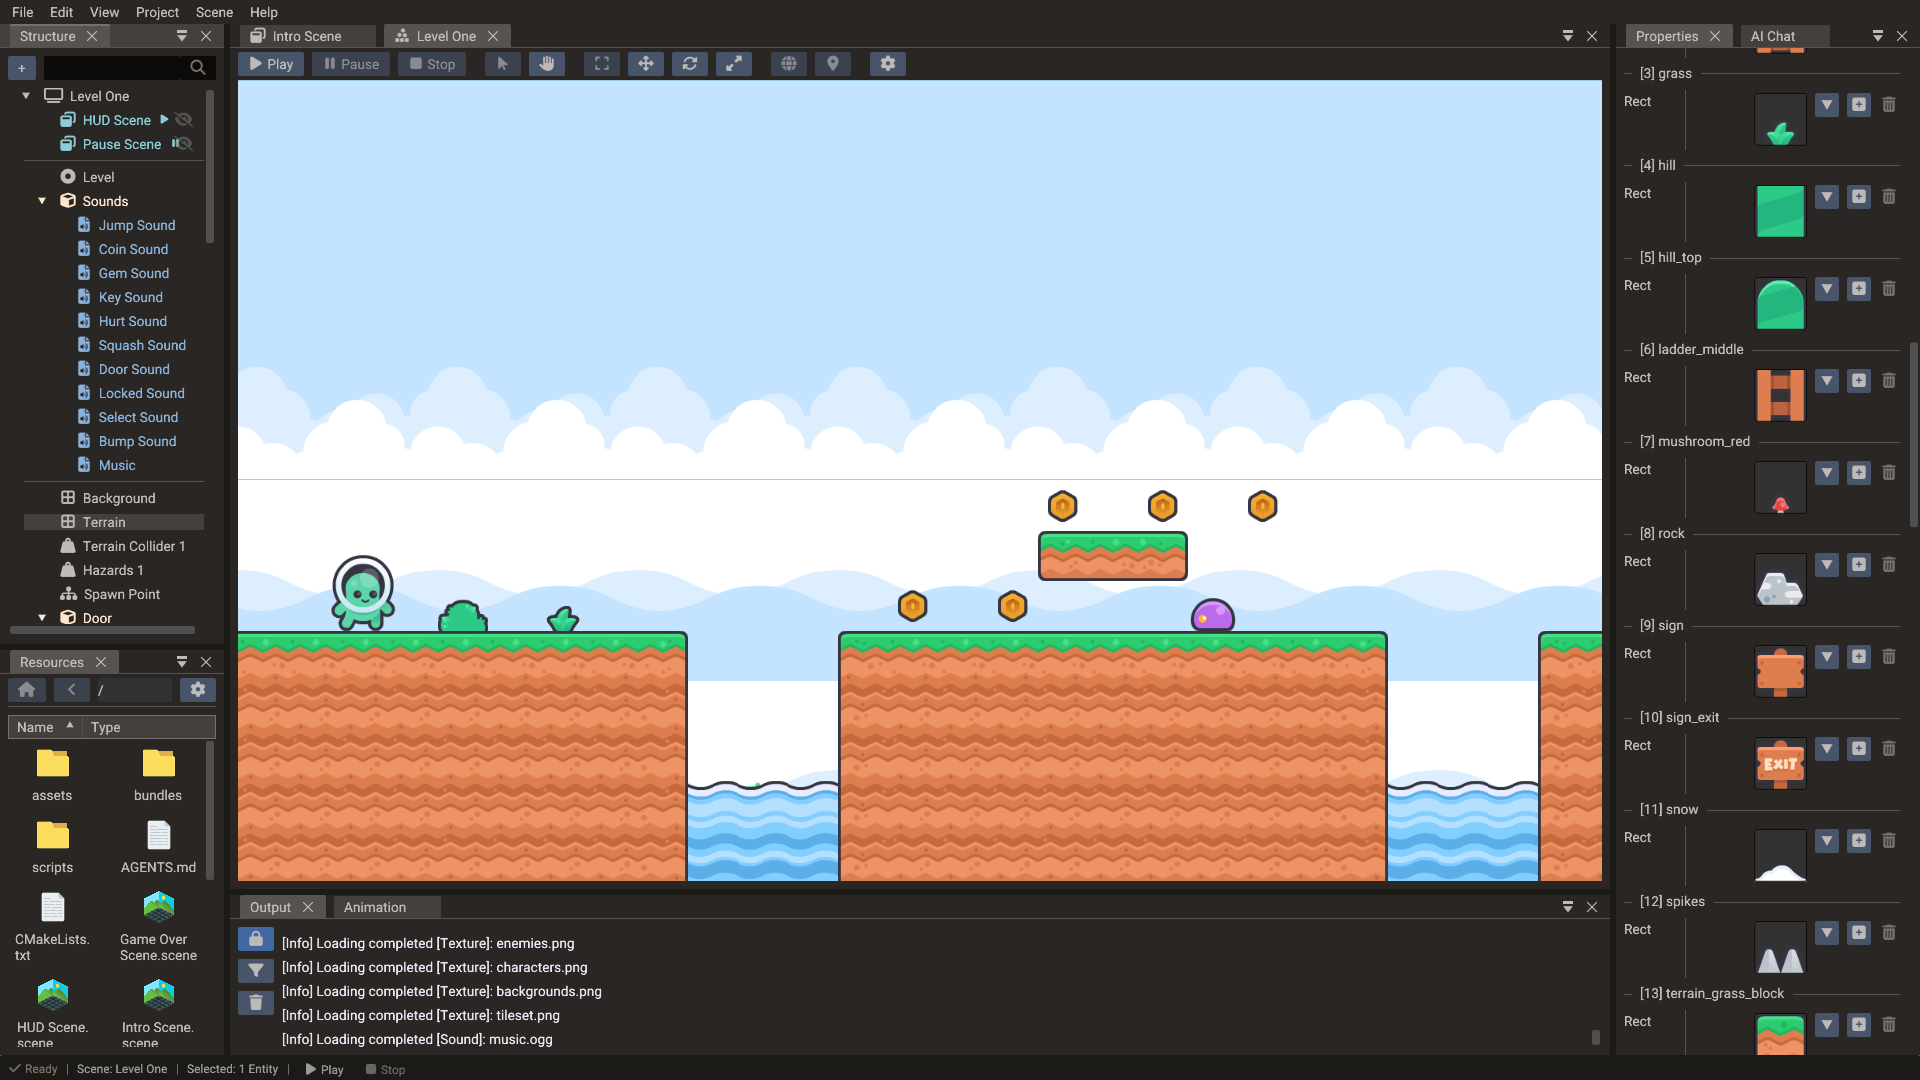
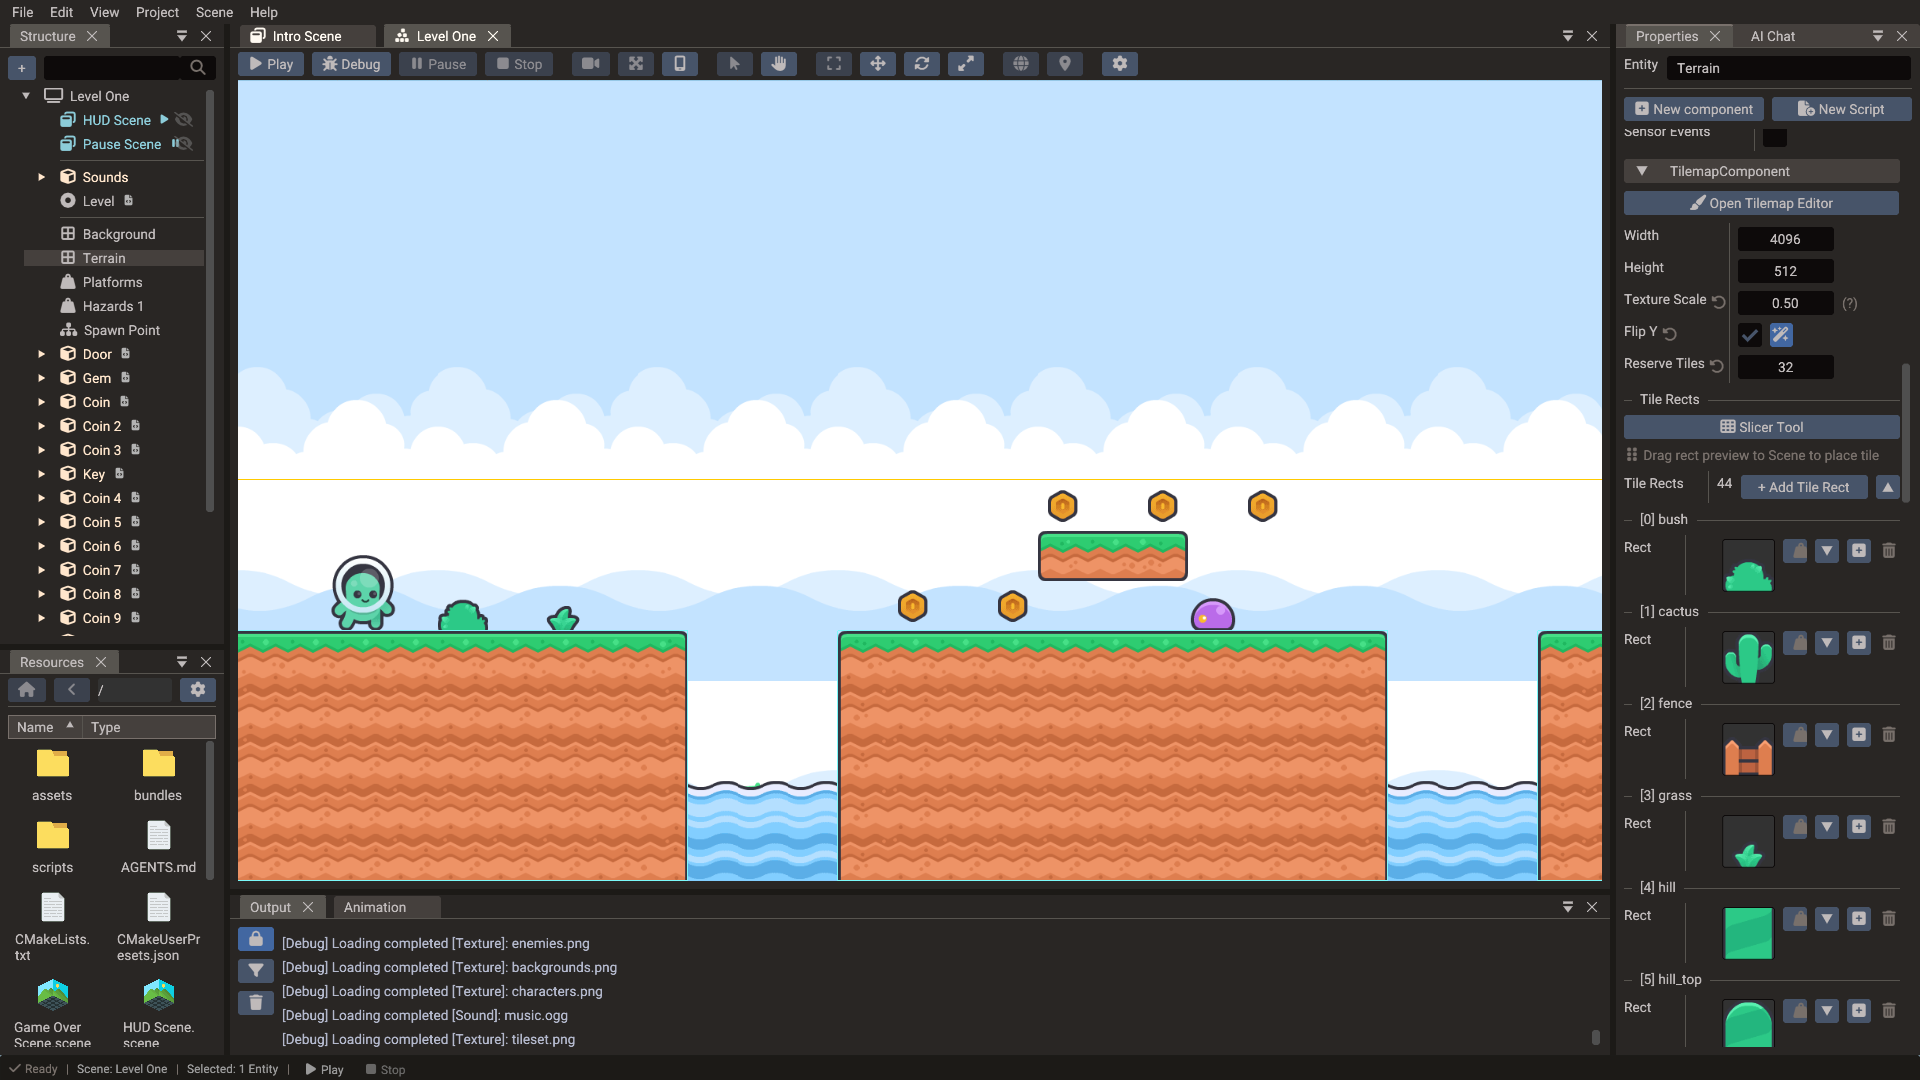
Tilemap Editor page and new tilemap screenshots

diff --git a/docs/editor/tilemap-editor.md b/docs/editor/tilemap-editor.md
@@ -1,0 +1,138 @@
+---
+description: The Doriax Tilemap Editor window for painting tiles with brush, line, rectangle, and fill tools, with stamps, random variants, and collision painting.
+---
+
+# Tilemap Editor
+
+The **Tilemap Editor** is the window for painting tiles into entities with a **Tilemap**
+component. You pick tiles from a palette of the tileset and paint them in the
+[Scene View](scene-view.md) with brush, line, rectangle, and fill tools. The tiles come
+from the tilemap's rects, which you cut with the [Tileset Slicer](tileset-slicer.md).
+
+![The Tilemap Editor with a bush previewed on a freshly painted platform](../assets/screenshots/editor-tilemap.png)
+
+## Opening the window
+
+Select the tilemap entity and click **Open Tilemap Editor** at the top of its Tilemap
+component in the [Properties](properties.md) window, or choose **View → Tilemap Editor**.
+The window follows the selection. When the selection is not a single tilemap, it lists
+the scene's tilemaps so you can pick one. Tilemaps can't be edited while a scene is
+playing.
+
+## Paint mode
+
+While paint mode is on, clicks in the scene view paint tiles instead of selecting
+entities, and the transform gizmo is hidden. Opening the window from the Properties
+button, picking a tile in the palette, or choosing a tool turns it on. Click the active
+tool again or press **Esc** to pause it and go back to selecting.
+
+The middle mouse button, Alt, Space, and the hand tool still move the view while you
+paint. The cell under the cursor previews what will be placed, and it turns red where
+nothing can be painted.
+
+## Layers
+
+The bar at the top lists the scene's tilemaps with their tile counts, so you can switch
+layers without leaving the window. The eye button hides or shows the current layer, and
+**Slice** opens the Tileset Slicer for it.
+
+The selected tile stays selected when you switch to a layer sliced from the same textures
+with the same rects. Any other tilemap starts with its first tile.
+
+## Tools
+
+| Tool | Key | Use |
+| --- | --- | --- |
+| **Brush** | B | Paints the selected tile or stamp along the drag. Shift+click draws a straight line from the last painted cell |
+| **Eraser** | E | Removes the tiles along the drag |
+| **Line** | L | Drag to lay out a straight line, painted when you release the button |
+| **Rectangle Fill** | R | Drag to lay out a filled rectangle, painted when you release the button |
+| **Flood Fill** | G | Fills the connected cells that match the clicked one, either the same tile or empty |
+| **Eyedropper** | I | Click a placed tile to select it in the palette and go back to the Brush |
+
+In 2D and UI scenes the right mouse button erases with any tool. Ctrl+click picks the tile
+under the cursor like the Eyedropper, without changing the tool. Until the tilemap has
+rects, only the Eraser and the Eyedropper are available.
+
+Line, Rectangle Fill, and Flood Fill repeat a multi-tile stamp as a pattern. Flood Fill
+stops after 4096 cells and stays inside the area the existing tiles cover. On an empty
+tilemap it fills from the origin to 15 cells past the clicked one. A rectangle with more
+cells than the 16 383 tiles a tilemap can hold turns red and isn't painted.
+
+The grid starts at the tilemap's origin, where the first column line is green and the
+first row line is red. Tiles are painted from the origin onward on both axes. The Eraser
+also removes tiles that sit before the origin, which you can place from the Properties
+window or move there with the gizmo.
+
+## Placement options
+
+| Option | Meaning |
+| --- | --- |
+| **Cell size** | **Auto** steps the grid by the selected tile's size. Turn it off to set the width and height yourself |
+| **Replace tile** | Painting over a tile replaces it. Off stacks the new tile on top |
+| **Randomize** | Paints a random pick of the variants in each cell |
+
+With **Auto** on, painted tiles keep their rect's size. Otherwise they take the cell size.
+
+## Palette
+
+The buttons above the palette switch between two views.
+
+![The palette in Sheet view with a stamp of five tiles selected](../assets/screenshots/tilemap-editor-palette.png)
+
+**Sheet view** shows the tileset texture with each rect outlined. Click a tile to select
+it, or drag a box over several tiles to select them as a stamp, which paints them
+together in the same layout. Zoom with the buttons, Ctrl+scroll, or **Fit**.
+
+**Grid view** shows one thumbnail per rect, with a search box that matches names and IDs,
+a filter for solid or passable tiles, and buttons for the thumbnail size (Ctrl+scroll
+works too).
+
+In both views, Ctrl+click adds a tile to the variants or removes it, and **Randomize**
+turns on once there are two. A tilemap with several textures shows a selector above the
+palette with the rect count of each texture.
+
+The footer shows the current brush, the number of tiles against the 16 383 a tilemap can
+hold, and the number of rects. **Clear** removes every placed tile.
+
+## Collision
+
+The weight button in the toolbar highlights solid tiles in the scene view and the
+palette. Turn on the weight button above the palette, **Collision Paint**, to click or
+drag across tiles and switch them between solid and passable. In Grid view you can also
+right-click a tile to switch it.
+
+This is the rect's **Collision** setting, which the tilemap's collision shape reads. See
+[Adding collision](tileset-slicer.md#adding-collision).
+
+## Undo
+
+Every stroke, fill, collision drag, and **Clear** is one undo step. Line and Rectangle
+Fill only paint when you release the button, so pressing **Esc** during the drag cancels
+them. With no button held, **Esc** pauses paint mode. Pressing the other mouse button
+during a stroke ends it there.
+
+On a tilemap that belongs to a [bundle](bundles.md), painted tiles reach the bundle's
+other instances.
+
+## Shortcuts
+
+| Shortcut | Action |
+| --- | --- |
+| **B**, **E**, **L**, **R**, **G**, **I** | Brush, Eraser, Line, Rectangle Fill, Flood Fill, Eyedropper |
+| Right mouse button | Erase, in 2D and UI scenes |
+| **Shift+click** | Line from the last painted cell, with the Brush |
+| **Ctrl+click** in the scene | Pick the tile under the cursor |
+| **Ctrl+click** in the palette | Add or remove a variant |
+| **Ctrl+scroll** in the palette | Zoom the sheet, or resize the thumbnails |
+| **Esc** | Cancel a Line or Rectangle drag, or pause paint mode |
+
+The tool keys work whenever you are not typing in a field. In paint mode, E and R pick
+the Eraser and Rectangle Fill instead of the Rotate and Scale gizmos.
+
+## See also
+
+- [Tileset Slicer](tileset-slicer.md)
+- [Scene View](scene-view.md#2d-and-tilemap-editing)
+- [2D Graphics](../manual/2d-graphics.md#tilemaps)
+- [Tilemap](../reference/classes/tilemap.md)

diff --git a/docs/editor/tileset-slicer.md b/docs/editor/tileset-slicer.md
@@ -9,14 +9,14 @@ Each rect gets a name and a numeric ID — its index in the tilemap's rect list.
 are the values you store in `TileData` cells and reference from `Tilemap` objects in
 script.
 
-![The Tileset Slicer cutting a tileset into 81 tile rects](../assets/screenshots/tileset-slicer.png)
+![The Tileset Slicer cutting a tileset into 314 tile rects and skipping 10 empty cells](../assets/screenshots/tileset-slicer.png)
 
 ## Opening the Tileset Slicer
 
 Select an entity with a **Tilemap** component. In the [Properties window](properties.md),
-click **Slicer Tool** in the component's **Tile Rects** section. The slicer cuts the
-tilemap's texture; when the tilemap uses several textures, pick the one to slice at the
-top of the dialog.
+click **Slicer Tool** in the component's **Tile Rects** section, or click **Slice** in the
+[Tilemap Editor](tilemap-editor.md). The slicer cuts the tilemap's texture; when the
+tilemap uses several textures, pick the one to slice at the top of the dialog.
 
 ## Setting up the grid
 
@@ -28,16 +28,23 @@ top of the dialog.
 | **Offset X / Y** | Pixel inset of the first tile |
 | **Padding X / Y** | Pixel gap between tiles, for tilesets with gutters |
 | **Prefix** | Rect name, followed by its number: `tile_0`, `tile_1`, … |
+| **Skip empty cells** | Leaves out cells whose pixels are all transparent. It is on by default, and the preview counts the cells it skipped |
 
 The **Preview** shows how many rects the grid produces, and **Rect Details** lists each
 one in pixels. Click **Apply** to replace the rects of the sliced texture; rects that
 belong to the tilemap's other textures are kept, and the new ones follow them, numbered
 left to right, top to bottom. The change is one undoable step.
 
+Tiles you already placed keep their image when you slice a texture again. A tile moves to
+the new rect with the same bounds, and the rect keeps its **Collision** setting. Tiles
+whose rect is gone get rect ID `-1` and stop drawing until you paint over them. If the
+new grid keeps none of the old bounds, tiles keep their place in the slice order instead.
+
 ## Tile IDs
 
 Tile IDs are plain integers. In a tilemap with a single texture, the tile at column 0,
-row 0 is ID `0`; column 1, row 0 is ID `1`; and so on. Use these IDs when filling
+row 0 is ID `0`; column 1, row 0 is ID `1`; and so on. Cells left out by **Skip empty
+cells** get no ID, so the IDs after them move down. Use these IDs when filling
 `TileData` in script.
 
 ```lua
@@ -56,12 +63,12 @@ tilemap:addTile(1, Vector2(32, 0), 32, 32)
 
 ## Painting tiles in the editor
 
-After slicing, the TilemapComponent's **Tile Rects** list shows a preview of each rect.
-To place tiles:
+After slicing, click **Open Tilemap Editor** in the Tilemap component and paint with the
+[Tilemap Editor](tilemap-editor.md), which has a palette of the tileset and brush, line,
+rectangle, and fill tools.
 
-1. Select the **Tilemap** entity.
-2. In the **Properties window**, find the rect in the **Tile Rects** list.
-3. Drag its preview into the viewport to place a tile there.
+To place a single tile without it, find the rect in the **Tile Rects** list of the
+Properties window and drag its preview into the viewport.
 
 ![Tile rect previews in the Tilemap component, ready to drag into the scene](../assets/screenshots/properties-tilemap.png)
 
@@ -84,7 +91,9 @@ while the body is selected, and the shape's **Boxes** row counts them.
 
 To leave out tiles that shouldn't block anything, like grass, clouds, or background
 props, click the weight button on their rect's row in the **Tile Rects** list. It dims
-when Collision is off, and every tile placed from that rect is then skipped.
+when Collision is off, and every tile placed from that rect is then skipped. **Collision
+Paint** in the Tilemap Editor palette changes the same setting as you click or drag
+across tiles.
 
 Every tile becomes a full square, so a ramp tile blocks like a wall. For slopes, and for
 one-way platforms that need their own filter or events, turn Collision off on those rects
@@ -113,6 +122,7 @@ Tiles** again after painting. See [Physics](../manual/physics.md#tilemap-collisi
 
 ## See also
 
+- [Tilemap Editor](tilemap-editor.md)
 - [Sprite Slicer](sprite-slicer.md)
 - [Scene View](scene-view.md#placing-and-grouping-tiles)
 - [Tilemap](../reference/classes/tilemap.md)

diff --git a/docs/editor/scene-view.md b/docs/editor/scene-view.md
@@ -166,14 +166,17 @@ In a 2D scene the editor uses orthographic projection and a canvas overlay. Spri
 tilemaps, UI widgets, and polygons should be positioned in a consistent logical
 coordinate system so that canvas scaling stays predictable across different screen sizes.
 
-Tilemap cells can be painted directly in the scene view when a Tilemap entity is
-selected and the tile-paint mode is active.
+To paint tilemap cells in the scene view, open the [Tilemap Editor](tilemap-editor.md).
+While its paint mode is on, clicks paint instead of selecting, the right mouse button
+erases, and E and R pick the Eraser and Rectangle Fill tools instead of the Rotate and
+Scale gizmos.
 
 ![A tilemap selected, with its tile rects in the Properties window](../assets/screenshots/editor-2d-tilemap.png)
 
 ### Placing and grouping tiles
 
-Drag a tile rect from the Tilemap palette onto the viewport to place it. With
+Drag a tile rect from the **Tile Rects** list in the Properties window onto the viewport
+to place it. With
 **Snap tile** enabled in the viewport settings:
 
 - Dropped tiles snap to multiples of their own size in the tilemap's local space.

diff --git a/docs/editor/index.md b/docs/editor/index.md
@@ -60,6 +60,7 @@ offering to save it if it has unsaved changes.
 | Import and preview assets | Resources Browser |
 | Share PBR materials across meshes | Create `.material` files (Properties → Resources drag), link from Scene view |
 | Slice sprite sheets and tilesets | Sprite Slicer, Tileset Slicer |
+| Paint tiles into tilemaps | Tilemap Editor |
 | Sculpt, paint and populate terrain | Terrain Editor |
 | Write Lua or C++ scripts | Code Editor and script creation dialog |
 | Animate objects and characters | Animation Timeline |
@@ -151,6 +152,7 @@ typing in a text field, so a shortcut never steals a keystroke from an input.
 - [Resources Browser](resources.md)
 - [Sprite Slicer](sprite-slicer.md)
 - [Tileset Slicer](tileset-slicer.md)
+- [Tilemap Editor](tilemap-editor.md)
 - [Terrain Editor](terrain-editor.md)
 - [Animation Timeline](animation.md)
 - [Code Editor](code-editor.md)

diff --git a/docs/getting-started/the-editor.md b/docs/getting-started/the-editor.md
@@ -35,7 +35,8 @@ the viewport.
 ![A 2D platformer level with sprites and tilemaps](../assets/screenshots/editor-2d-sprite.png)
 
 Build 2D scenes with sprites and tilemaps. The **sprite slicer** and **tileset slicer**
-tools let you cut sprite sheets and tilesets into usable frames and tiles.
+tools let you cut sprite sheets and tilesets into usable frames and tiles, and the
+**Tilemap Editor** paints the tiles into your levels.
 
 ## Animation
 
@@ -86,6 +87,7 @@ The detailed editor manual is split into focused pages:
 - [Scene View](../editor/scene-view.md)
 - [Properties & Components](../editor/properties.md)
 - [Resources Browser](../editor/resources.md)
+- [Tilemap Editor](../editor/tilemap-editor.md)
 - [Terrain Editor](../editor/terrain-editor.md)
 - [Animation Timeline](../editor/animation.md)
 - [Code Editor](../editor/code-editor.md)

diff --git a/docs/manual/2d-graphics.md b/docs/manual/2d-graphics.md
@@ -79,7 +79,7 @@ other in the hierarchy so they batch. See
 
 Tilemaps let you compose large 2D worlds from reusable tiles. Use the **tileset
 slicer** in the editor to cut a tileset image into tiles, then paint them into a
-tilemap in the scene view.
+tilemap with the [Tilemap Editor](../editor/tilemap-editor.md).
 
 Tilemaps are designed for large grids of repeated texture regions. Keep individual
 tiles consistent in size, and split very large worlds into scenes or chunks so editing
